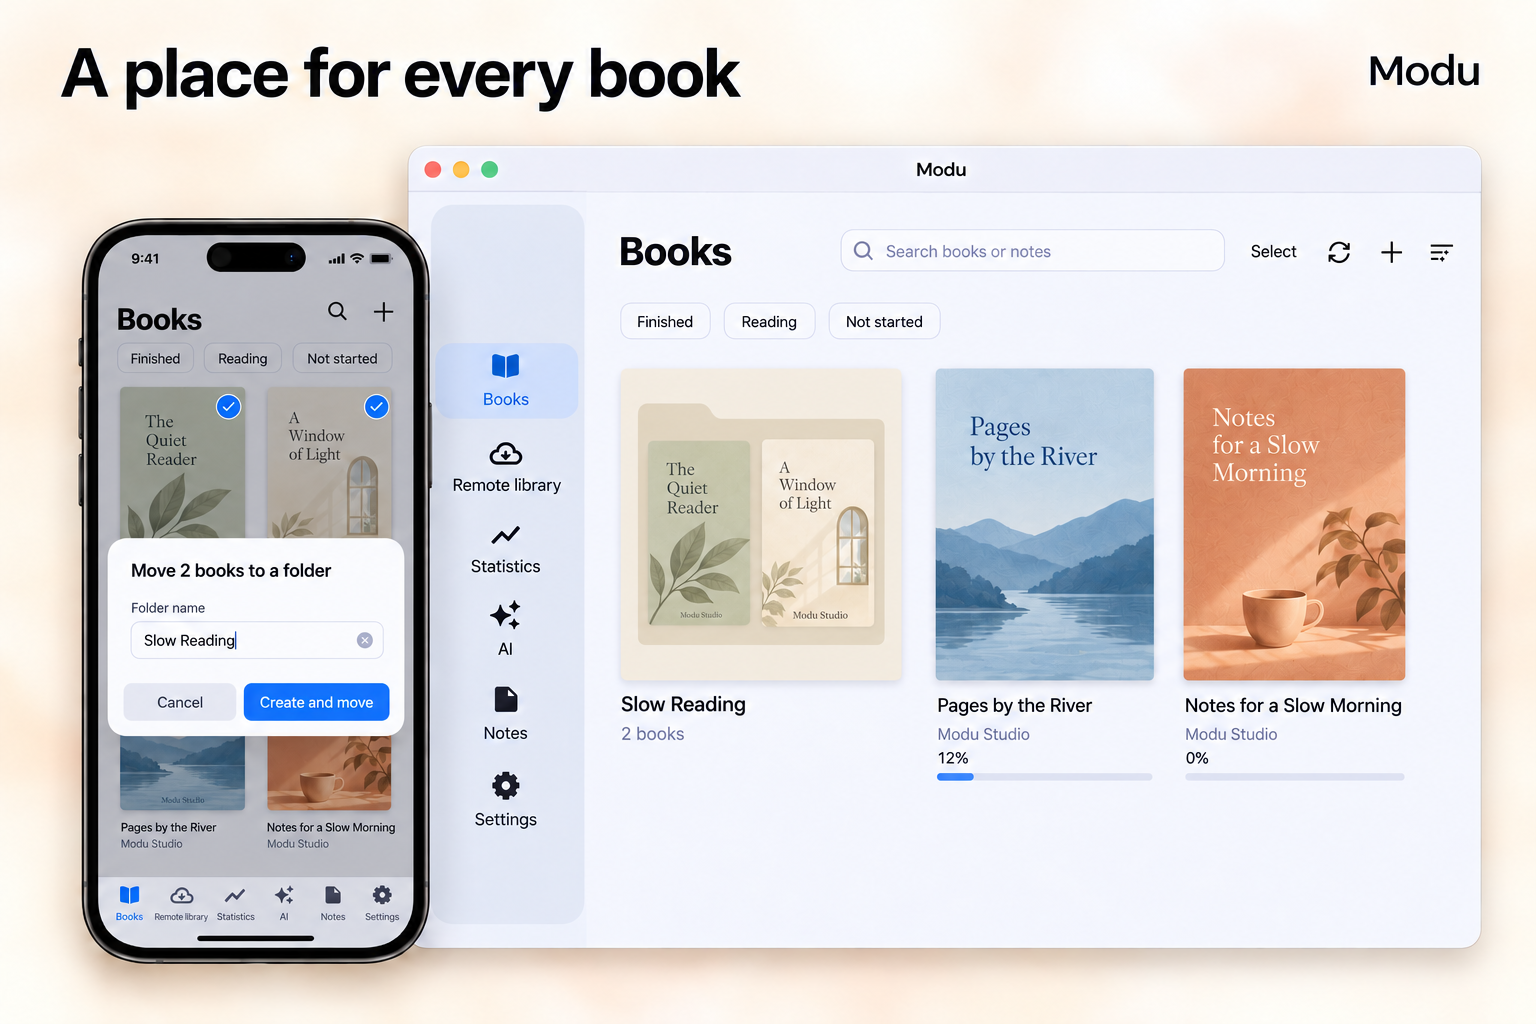
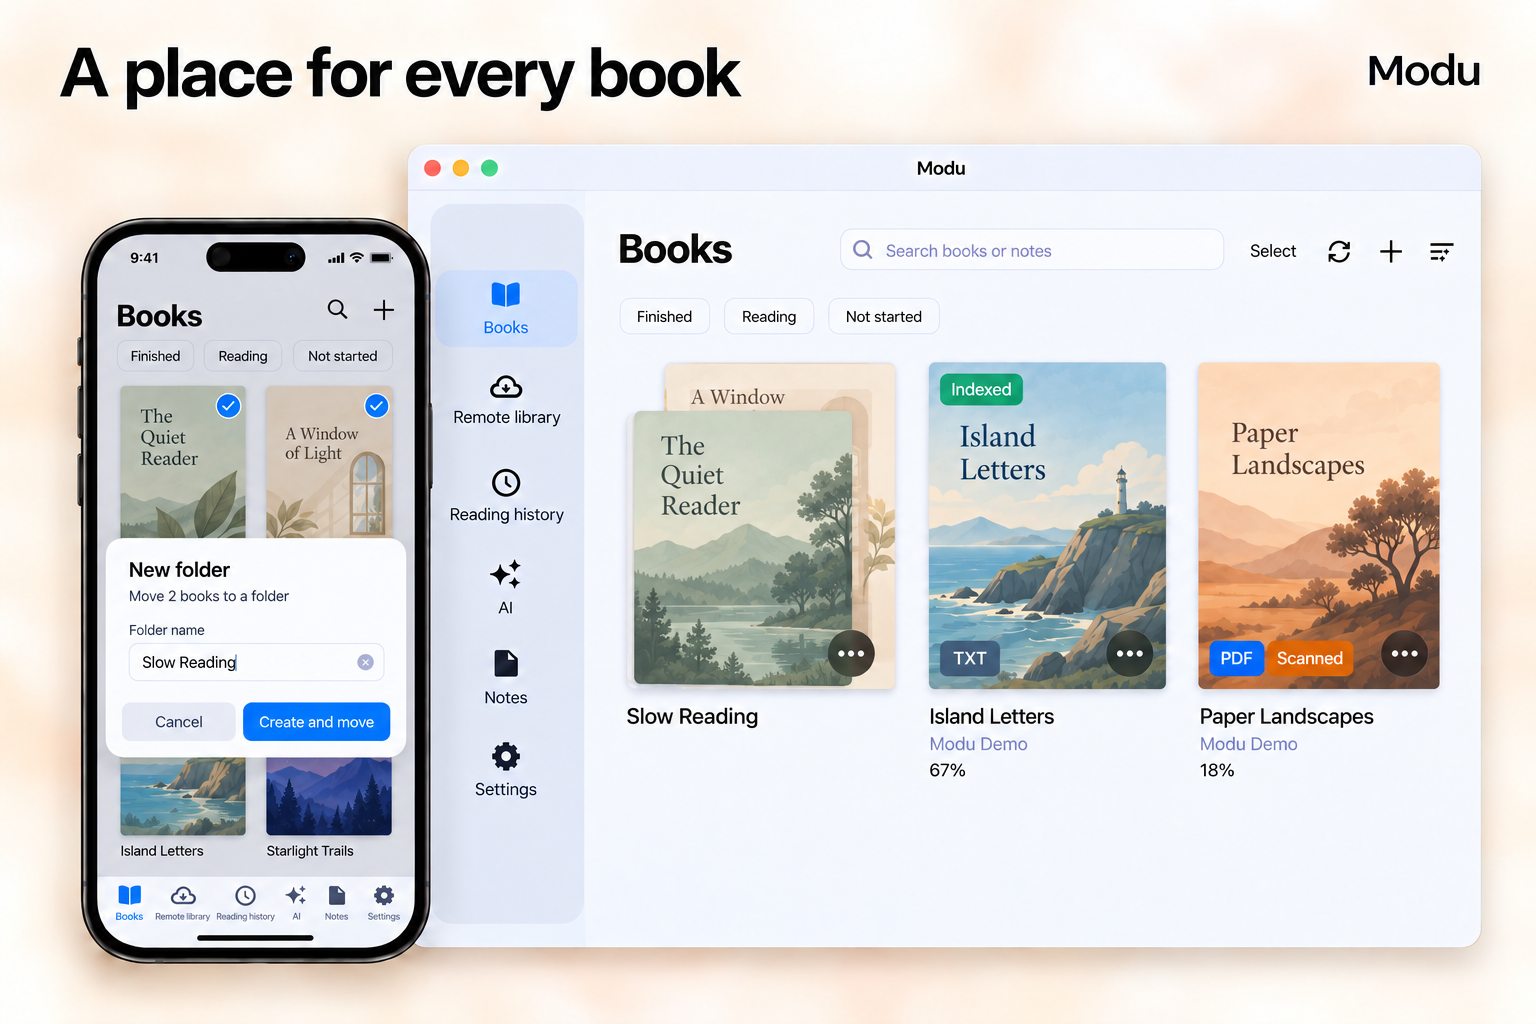
docs: refresh library artwork and remove showcase captions

diff --git a/docs/images/README.md b/docs/images/README.md
@@ -13,7 +13,7 @@ Feature configuration/result pairs use phone configuration → Mac result. The p
 | Assets | Phone configuration | Mac result |
 | --- | --- | --- |
 | `bookshelf-home-*` | Bookshelf home with fictional books and index/format labels | Bookshelf home with Indexed, original-format and Scanned badges |
-| `library-*` | Create a folder for selected books | Books organized into a folder |
+| `library-*` | Create a folder for selected books | Stacked folder covers, translucent menus and indexed/format badges on individual books; Reading history navigation |
 | `styles-*` | Font, thickness and spacing | Comfortable book typography |
 | `scanned-pdf-*` | Original-page crop preview, per-page automatic crop and safety margin | The same page enlarged after cropping its outer margins |
 | `ocr-*` | Optional OCR model cards, with V4 recommended and actual model sources | Current-page reflowed text with selection handles and reader toolbar |
@@ -33,7 +33,7 @@ The opening `reading-*` banners and `vertical-zh` show reading layouts directly.
 
 OCR artwork shows Text Reflow/OCR Reflow directly in the reader for the current original page or its whole saved crop. It must not depict a region-selection popup as the reflow reader: only Extract opens that editor and can fill an editable AI input without automatically sending. Model downloads are optional; V4 is recommended, V5 upstream is ModelScope, and V3/V4 upstream is Hugging Face, with Gitee alternatives. Artwork is not an OCR accuracy measurement. Ordinary text books retain their normal controls; E-Ink refresh claims apply only to supported devices.
 
-Only selected final assets are tracked; prompt drafts and discarded variants remain outside the published source tree. The 2026-10-10 update adds `bookshelf-home-zh.png` and `bookshelf-home-en.png` using the built-in image-generation tool, matching the existing Mac-window/iPhone composition. Unlike configuration/result pairs, both screens show the bookshelf home. Badge positions, labels and colors were checked against `book_item.dart` and `book_type_badges.dart`: green indexed status at the top left, colored original-format labels at the bottom left, plus an orange scanned label where applicable. All books, covers and progress values are fictional. These are labeled illustrative images, not untouched device screenshots; no new application/device testing is claimed.
+Only selected final assets are tracked; prompt drafts and discarded variants remain outside the published source tree. The 2026-10-10 update adds `bookshelf-home-zh.png` and `bookshelf-home-en.png` using the built-in image-generation tool, matching the existing Mac-window/iPhone composition. Unlike configuration/result pairs, both screens show the bookshelf home. Badge positions, labels and colors were checked against `book_item.dart` and `book_type_badges.dart`: green indexed status at the top left, colored original-format labels at the bottom left, plus an orange scanned label where applicable. All books, covers and progress values are fictional. These are illustrative images, not untouched device screenshots; no new application/device testing is claimed.
 
 Reading examples use the original [Chinese demonstration book](../examples/modu-reading-demo.epub) and [The Quiet Reader](../examples/modu-reading-demo-en.epub), plus original sample passages and dictionary definitions written for artwork. Source/redistribution terms are in [example books](../examples/README.md). Statistics, notes, retrieval excerpts and AI answers are illustrative data, not private accounts or performance benchmarks. No private bookshelf, notes, AI conversation or credentials are included. Settings illustrate features and are not necessarily factory defaults.
 

diff --git a/README_EN.md b/README_EN.md
@@ -39,8 +39,6 @@ Please submit bugs and feature requests through [GitHub Issues](https://github.c
 
 A green **Indexed** badge appears at the top left of indexed covers. Color-coded badges at the bottom left show the original file format, such as EPUB, PDF, TXT, MD or FB2; books identified or manually set as scans also show **Scanned**. TXT and Markdown imports retain their original-format labels after conversion to EPUB.
 
-<sub>Illustrative artwork based on the actual interface layout. Book titles, covers and reading progress are fictional; no personal library is shown.</sub>
-
 ![Reading and chapter navigation on macOS and iOS](docs/images/showcase/cross-platform/reading-en.png)
 
 > **Local reading does not require an AI account.** AI, online translation and online speech are optional; availability and costs depend on your chosen providers. See [Releases](https://github.com/sobranie2406/modureader/releases) for version updates and usage notes.

diff --git a/README.md b/README.md
@@ -39,8 +39,6 @@
 
 封面左上角显示绿色「已索引」状态，左下角用不同颜色标注 EPUB、PDF、TXT、MD、FB2 等原始文件格式；识别为扫描版或手动设为扫描图片书籍时，还会显示「扫描版」标签。TXT、Markdown 等转换为 EPUB 后，仍保留原始导入格式标签。
 
-<sub>基于实际界面布局制作的展示示意图；书名、封面和阅读进度均为虚构，不包含真实书库。</sub>
-
 ![Mac 与 iPhone 上的阅读与章节导航](docs/images/showcase/cross-platform/reading-zh.png)
 
 > **本地阅读不需要 AI 账号。** AI、在线翻译和在线语音按需配置，费用与可用性取决于所选服务。各版本更新与使用说明见 [Releases](https://github.com/sobranie2406/modureader/releases)。
